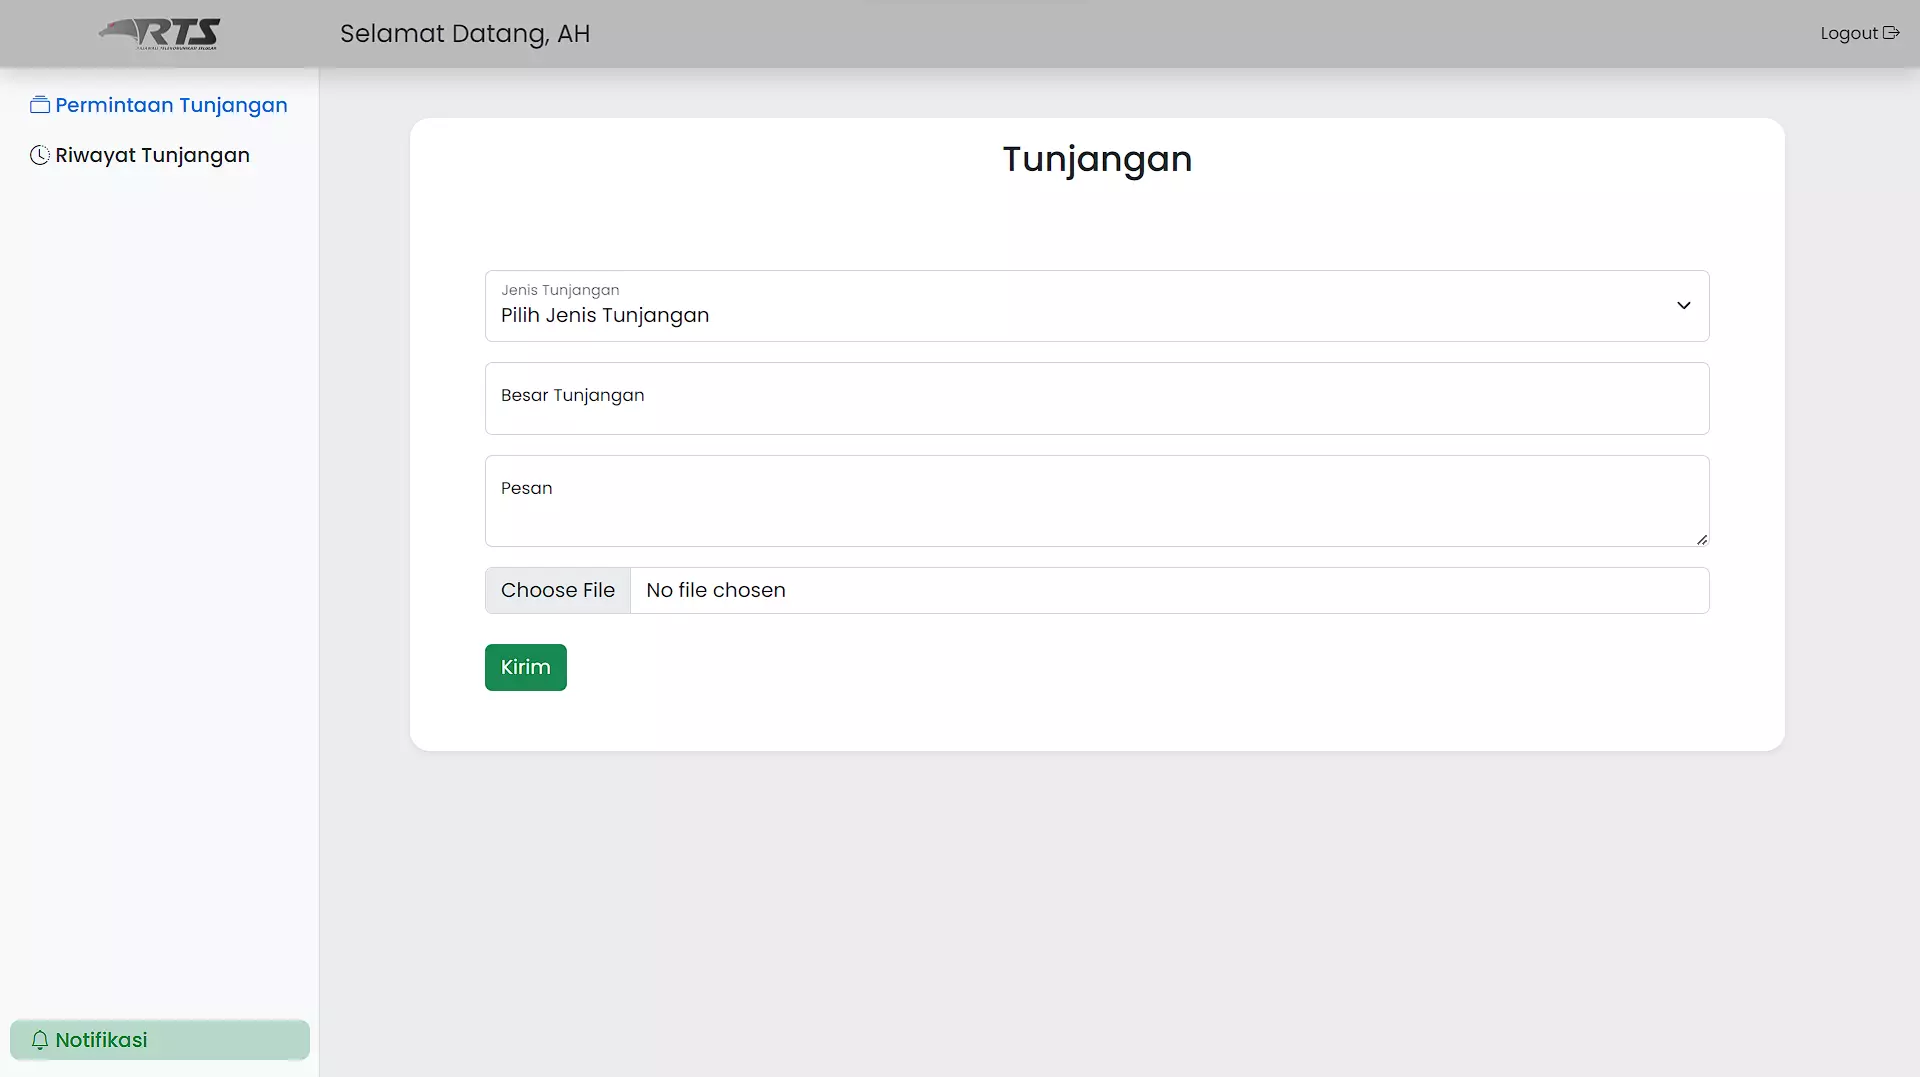
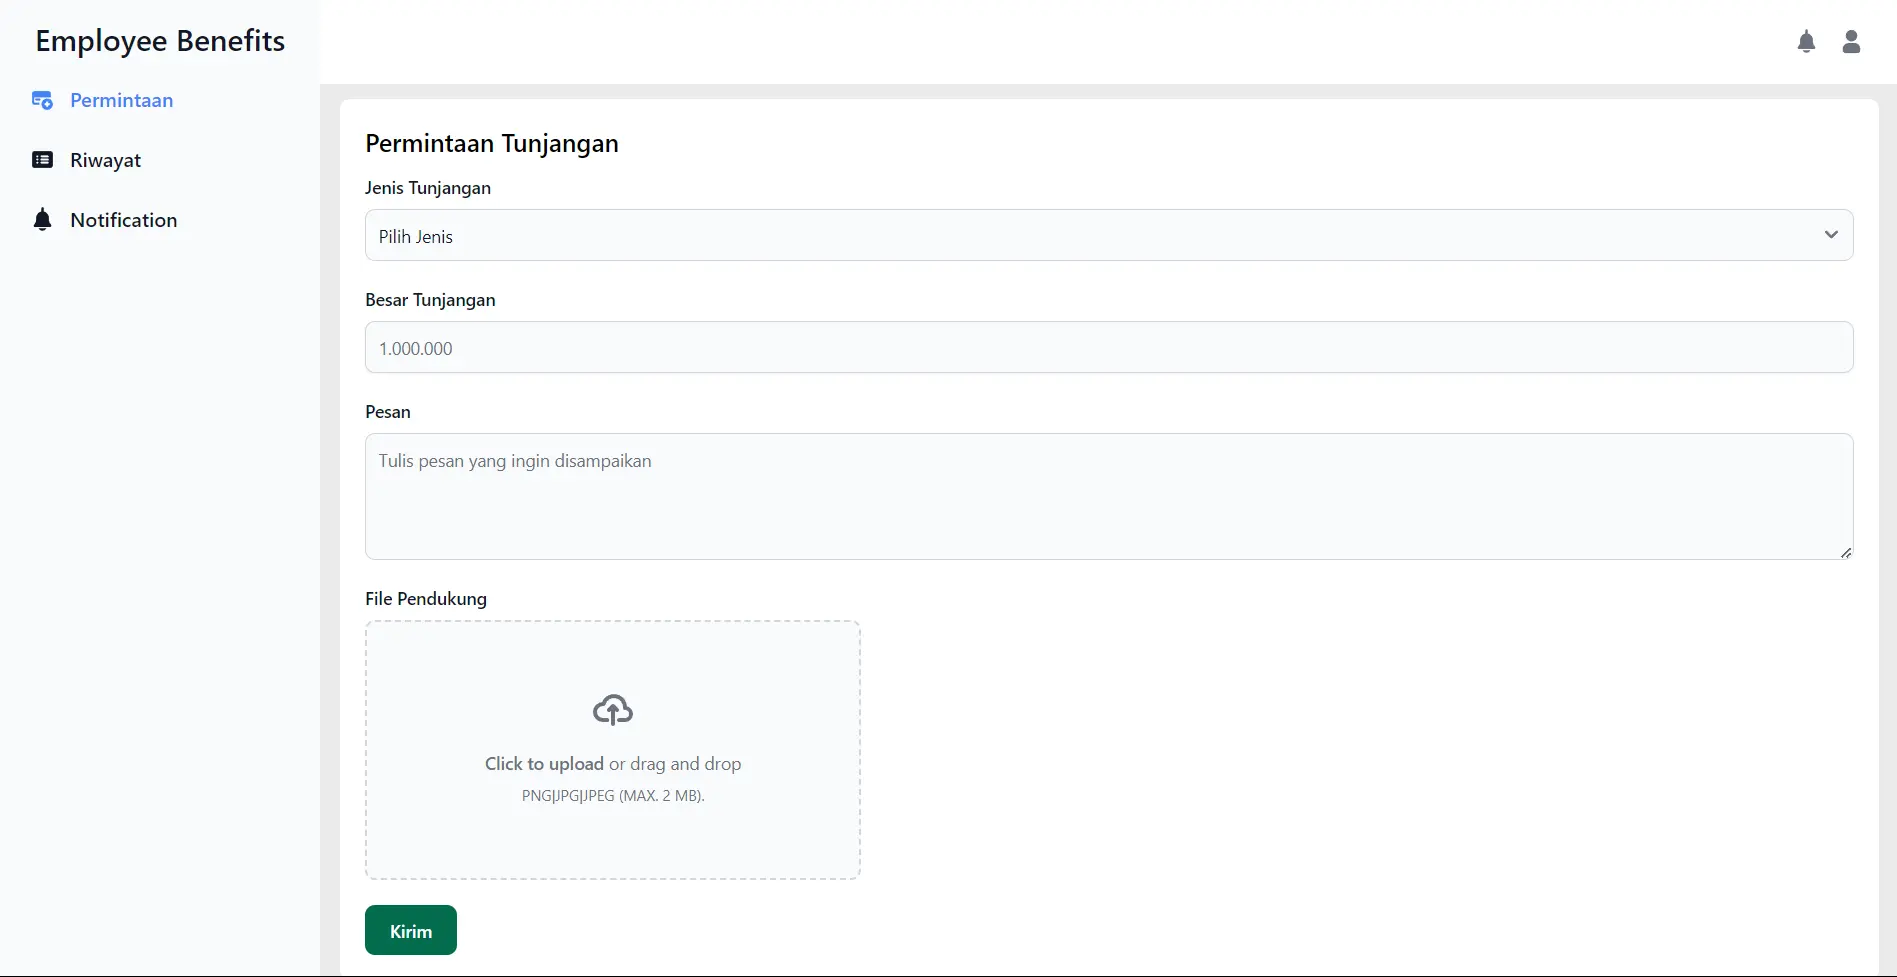
update image and tech a project

diff --git a/src/docs/projects.tsx b/src/docs/projects.tsx
@@ -41,7 +41,7 @@ const projectsCollection: projectType[] = [
    {
       image: "/images/projects/kompensasi-benefit-karyawan.webp",
       title: "kompensasi_dan_benefit_karyawan",
-      tech: ["Laravel", "Bootstrap", "MySQL"],
+      tech: ["Laravel", "Tailwind CSS", "Flowbite", "SQLite"],
       description: "A website that efficiently manages employee benefits and perks, improving well-being and satisfaction in the work environment.",
       github: "https://github.com/khmalz/kompensasi-dan-benefit-karyawan",
    },
